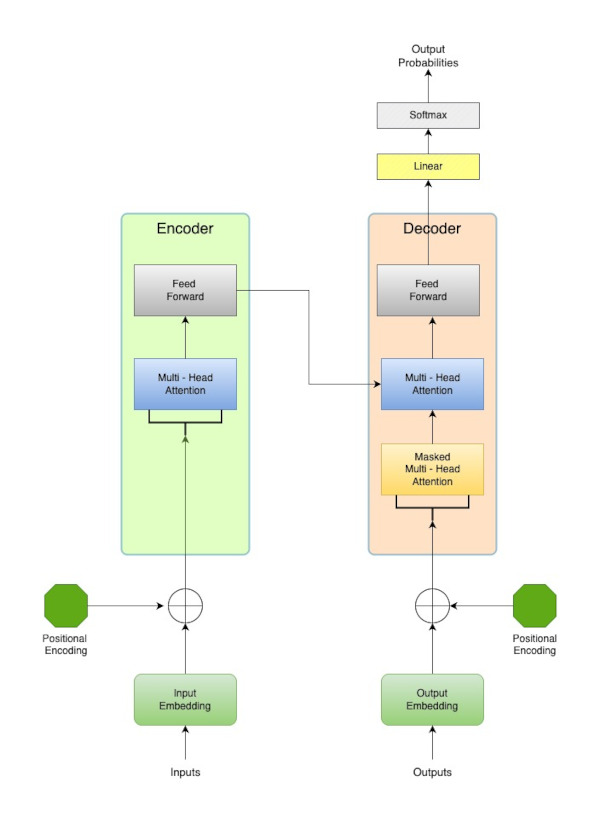
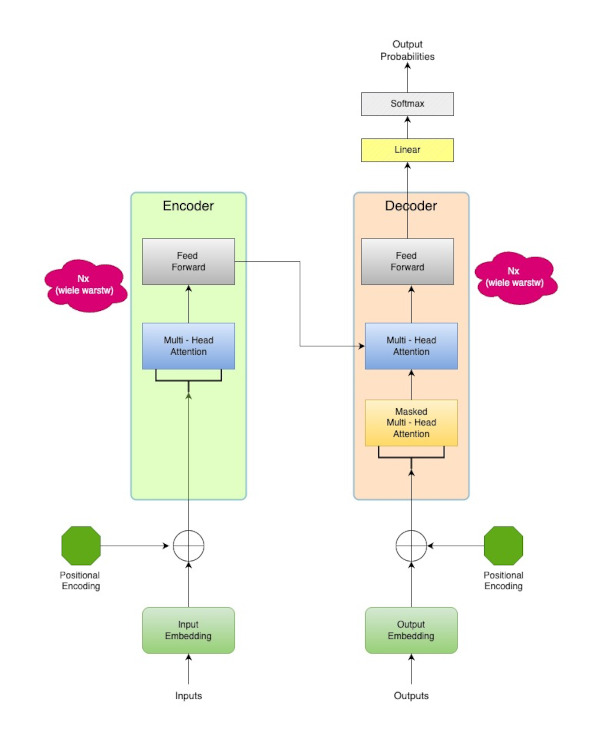
attention head

diff --git a/materials/llm/llm.md b/materials/llm/llm.md
@@ -53,11 +53,13 @@ działa Transformer (sieć neuronowa)](https://miroslawmamczur.pl/czym-jest-i-ja
 
 Diagram architektury transformera wygląda następująco:
 
-![transformer.jpg](img/transformer.jpg)
+![transformer.jpg](./img/transformer.jpg)
 
 ##### Słownik tokenów i macierz Input Embeddings
 
-Pierwszą warstwą architektury Transformera jest macierz Input Embedding. Jej powstanie musi zostać zostać poprzedzone 
+Zanim rozpocznie się faktyczny proces uczenia, konieczne jest przygotowanie dwóch powiązanych ze sobą struktur 
+pomocniczych - **Słownika tokenów** oraz macierzy **Input 
+Embedding**. Jej powstanie musi zostać zostać poprzedzone 
 stworzeniem jeszcze bardziej pierwotnej struktury - słownika tokenów. 
 
 **Słownik tokenów** - jest to struktura której zadaniem jest przetworzenie tekstu na format zrozumiały dla przetwarzania numerycznego.  
@@ -65,13 +67,13 @@ stworzeniem jeszcze bardziej pierwotnej struktury - słownika tokenów.
 W procesie tokenizacji każde zdanie ze zbioru uczącego przetwarzane jest na jednostki:
 
 Jako przykład niech posłuży zdanie: "Natura stwarza najpiękniejsze obrazy"
+    
+  * "Natura"
+  * "stwarza"
+  * "najpiękniejsze"
+  * "obrazy"
 
-    * "Natura"
-    * "stwarza"
-    * "najpiękniejsze"
-    * "obrazy"
-
-  Następnie każdy token otrzymuje unikalny identyfikator liczbowy. Identyfikatory są stałe podczas całego procesu uczenia.
+Następnie każdy token otrzymuje unikalny identyfikator liczbowy. Identyfikatory są stałe podczas całego procesu uczenia.
 
   * "Natura" (ID: 201)
   * "stwarza" (ID: 315)
@@ -81,7 +83,7 @@ Jako przykład niech posłuży zdanie: "Natura stwarza najpiękniejsze obrazy"
 W tym kroku model uczy się swojego słownika tokenów. Oznacza to, że zostają zidentyfikowane wszystkie unikalne słowa 
 i pod-słowa, które będzie rozpoznawał.
 
-Pierwszą warstwą architektury transformera jest **macierz Input Embedings** powstająca bezpośrednio po kroku tworzenia 
+Pierwszą warstwą architektury transformera jest **macierz Input Embeddings** powstająca bezpośrednio po kroku tworzenia 
 słownika tokenów. Jest to specjalna numeryczna reprezentacja słownika. Posiada tyle wierszy, 
    ile jest  
    elementów w słowniku. Do każdego tokena przypisany jest wektor liczb stałoprzecinkowych. Inicjalnie posiada on 
@@ -146,6 +148,43 @@ Embedding jest to struktura która będzie wykorzystywana w dalszym procesie ucz
 Wektor wynikowy jest unikalny dla konkretnego słowa na konkretnej pozycji. Dalsze warstwy transformera, a zwłaszcza 
 mechanizm uwagi są sieciami neuronowymi, które podczas treningu uczą się jak interpretować te wzbogacone wektory. 
 
+Finalny wektor **Input Embedding** jest skonstruowany w taki sposób, aby słowa o podobnym znaczeniu miały podobne 
+wektory (czyli znalazły się blisko siebie w przestrzeni wielowymiarowej). Wymiar tej przestrzeni jest ograniczony 
+wymiarem wektora **Input Embedding**. Jeśli ma on długość 768 to znaczy że każde słowo, lub token reprezentowane 
+jest jako punkt w 768 wymiarowej przestrzeni wektorowej.
+ 
 Dla lepszego zrozumienia można posłużyć się analogią do smaku potrawy: 
 
 Składa się z wielu składników, które są ze sobą wymieszane. Nie "rozdzielasz" ich w ustach, ale twój mózg uczy się rozpoznawać poszczególne smaki i ich kombinacje. Podobnie Transformer uczy się, że pewne kombinacje wartości w wektorze (które wynikają z sumy V_słowo i PE) sygnalizują, że "to jest rzeczownik na początku zdania", a inne kombinacje, że "to jest czasownik w środku zdania".
+
+##### Sposób działania Encodera
+
+Jest to ta część architektury Transformera która odpowiada za uczenie modelu. Składa się on z kilku 
+dwuelementowych bloków (warstw). Zwykle jest ich kilka - od 6 do 12.
+Każda taka warstwa przetwarza dane i przekazuje je do następnej, stopniowo budując coraz bardziej złożone i abstrakcyjne rozumienie wejściowej sekwencji.
+
+![transformer-encoder.jpg](img/transformer-encoder.jpg)
+
+
+###### Jak działa pojedyncza Warstwa Enkodera?
+Pojedyncza warstwa encodera składa się z dwóch wyspecjalizowanych podbloków
+
+* Multi-Head Self-Attention (Wielogłowicowa Self-Attention)
+* Feed-Forward Network (Sieć Przewijająca do Przodu)
+
+**Multi-Head Self-Attention**
+
+Głowica uwagi ( **Attention Head** ) to kluczowy komponent architektury **Transformer**. Jest to filtr, lub 
+perspektywa, która jest wykorzystywania do analizowania relacji pomiędzy tokenami w sekwencji. Wiele ( **Attention 
+Head** ) składa się na mechanizm (**Multi Head**)). Dzięki temu, że każda z głowic , w procesie uczenia  
+specjalizuje się w jakimś specjalnym aspekcie powiązań pomiędzy tokenami.  
+
+Z każdą głowicą związane są trzy unikalne dla niej macierze Wag, które podlegają procesowi uczenia. Są to macierze 
+(Wq, Wk, Wv). Na początku uczenia są one inicjalizowane losowymi wartościami, które będą podlegać modyfikacjom (na 
+tym polega ta specjalizacja). 
+
+
+
+
+
+
